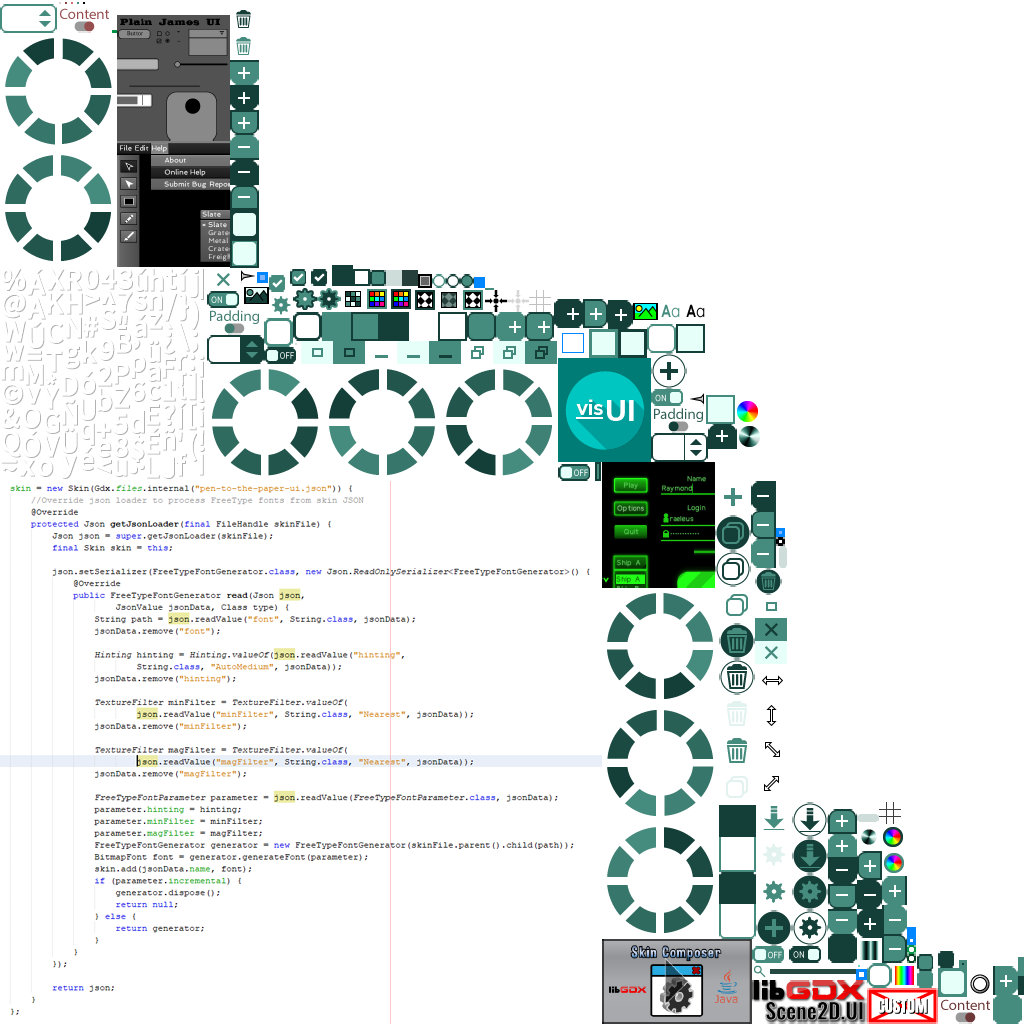
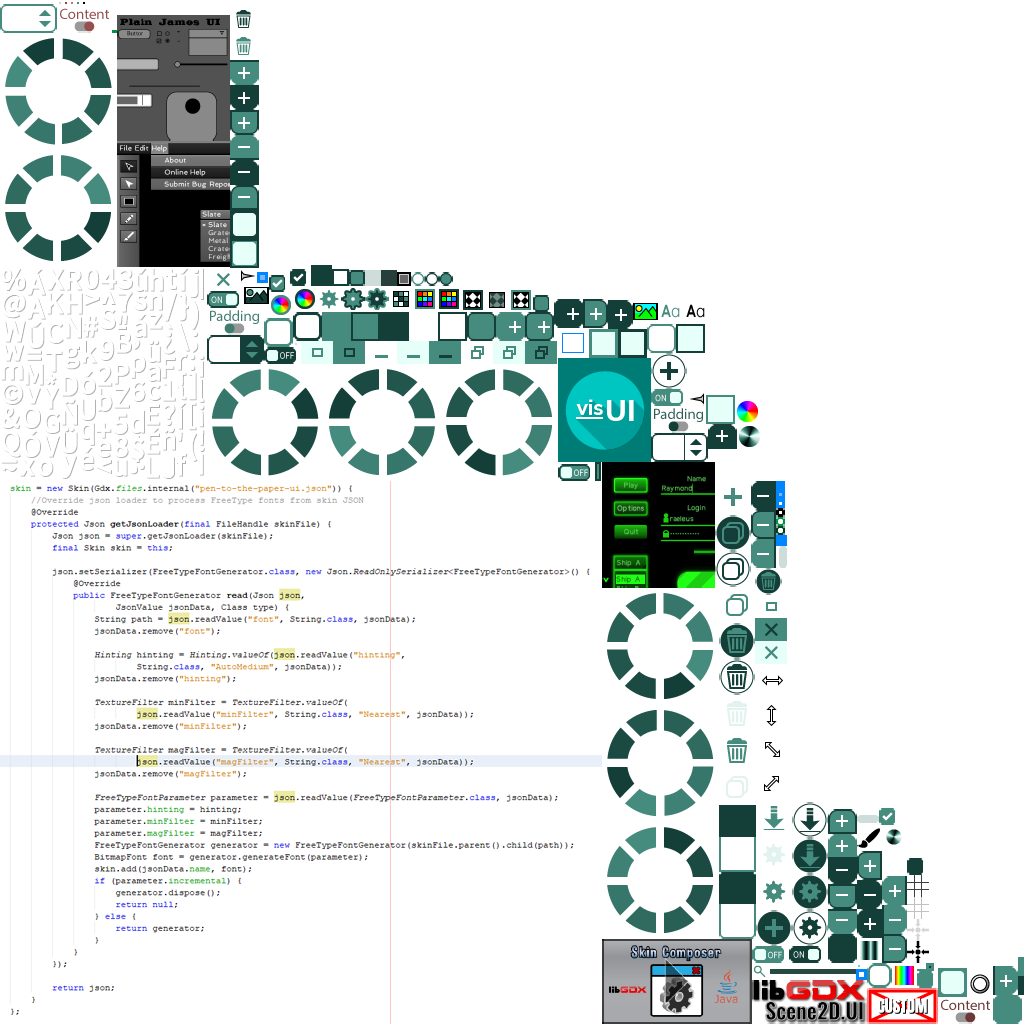
Added Style property type to Custom Classes. Resolves #46

Changed region(s): [[0.25, 0.25, 0.5312, 0.3125], [0.8438, 0.7812, 0.9375, 0.9688], [0.75, 0.4688, 0.7812, 0.5312]]

diff --git a/core/src/com/ray3k/skincomposer/dialog/DialogCustomStyleSelection.java b/core/src/com/ray3k/skincomposer/dialog/DialogCustomStyleSelection.java
@@ -1,0 +1,201 @@
+/*
+ * The MIT License
+ *
+ * Copyright 2018 Raymond Buckley.
+ *
+ * Permission is hereby granted, free of charge, to any person obtaining a copy
+ * of this software and associated documentation files (the "Software"), to deal
+ * in the Software without restriction, including without limitation the rights
+ * to use, copy, modify, merge, publish, distribute, sublicense, and/or sell
+ * copies of the Software, and to permit persons to whom the Software is
+ * furnished to do so, subject to the following conditions:
+ *
+ * The above copyright notice and this permission notice shall be included in
+ * all copies or substantial portions of the Software.
+ *
+ * THE SOFTWARE IS PROVIDED "AS IS", WITHOUT WARRANTY OF ANY KIND, EXPRESS OR
+ * IMPLIED, INCLUDING BUT NOT LIMITED TO THE WARRANTIES OF MERCHANTABILITY,
+ * FITNESS FOR A PARTICULAR PURPOSE AND NONINFRINGEMENT. IN NO EVENT SHALL THE
+ * AUTHORS OR COPYRIGHT HOLDERS BE LIABLE FOR ANY CLAIM, DAMAGES OR OTHER
+ * LIABILITY, WHETHER IN AN ACTION OF CONTRACT, TORT OR OTHERWISE, ARISING FROM,
+ * OUT OF OR IN CONNECTION WITH THE SOFTWARE OR THE USE OR OTHER DEALINGS IN
+ * THE SOFTWARE.
+ */
+package com.ray3k.skincomposer.dialog;
+
+import com.badlogic.gdx.Input.Keys;
+import com.badlogic.gdx.scenes.scene2d.Action;
+import com.badlogic.gdx.scenes.scene2d.Actor;
+import com.badlogic.gdx.scenes.scene2d.Event;
+import com.badlogic.gdx.scenes.scene2d.EventListener;
+import com.badlogic.gdx.scenes.scene2d.Stage;
+import com.badlogic.gdx.scenes.scene2d.ui.Dialog;
+import com.badlogic.gdx.scenes.scene2d.ui.Label;
+import com.badlogic.gdx.scenes.scene2d.ui.SelectBox;
+import com.badlogic.gdx.scenes.scene2d.ui.Table;
+import com.badlogic.gdx.scenes.scene2d.ui.TextButton;
+import com.badlogic.gdx.scenes.scene2d.utils.ChangeListener;
+import com.badlogic.gdx.utils.Array;
+import com.ray3k.skincomposer.Main;
+import com.ray3k.skincomposer.data.CustomClass;
+import com.ray3k.skincomposer.dialog.DialogCustomStyleSelection.DialogCustomStyleSelectionEvent;
+
+/**
+ *
+ * @author Raymond
+ */
+public class DialogCustomStyleSelection extends Dialog {
+    private Main main;
+    
+    public DialogCustomStyleSelection(Main main) {
+        super("Select a style...", main.getSkin(), "bg");
+        this.main = main;
+        
+        populate();
+    }
+    
+    private void populate() {
+        var t = getContentTable();
+        t.pad(5);
+        
+        var table = new Table();
+        t.add(table).expandY();
+        
+        table.defaults().space(5);
+        var label = new Label("Class:", getSkin());
+        table.add(label).right();
+        
+        var selectBox = new SelectBox<String>(getSkin());
+        selectBox.setName("classes");
+        table.add(selectBox).growX().minWidth(100);
+        selectBox.addListener(main.getHandListener());
+        selectBox.addListener(new ChangeListener() {
+            @Override
+            public void changed(ChangeListener.ChangeEvent event, Actor actor) {
+                var selectBox = (SelectBox<String>) actor;
+                populateStyles(selectBox.getSelectedIndex());
+            }
+        });
+        
+        table.row();
+        label = new Label("Style:", getSkin());
+        table.add(label).right();
+        
+        selectBox = new SelectBox<>(getSkin());
+        selectBox.setName("styles");
+        table.add(selectBox).growX().minWidth(100);
+        selectBox.addListener(main.getHandListener());
+        
+        populateClasses();
+        populateStyles(0);
+        
+        t = getButtonTable();
+        t.pad(5);
+        
+        t.defaults().space(5).minWidth(75);
+        var textButton = new TextButton("OK", getSkin());
+        button(textButton, true);
+        textButton.addListener(main.getHandListener());
+        
+        textButton = new TextButton("Cancel", getSkin());
+        button(textButton, false);
+        textButton.addListener(main.getHandListener());
+        
+        key(Keys.ENTER, true).key(Keys.ESCAPE, false);
+    }
+    
+    private void populateClasses() {
+        var classNames = new Array<String>();
+        for (Class clazz : Main.BASIC_CLASSES) {
+            classNames.add(clazz.getSimpleName());
+        }
+        for (CustomClass clazz : main.getJsonData().getCustomClasses()) {
+            classNames.add(clazz.getDisplayName());
+        }
+        
+        SelectBox<String> selectBox = findActor("classes");
+        selectBox.setItems(classNames);
+    }
+    
+    private void populateStyles(int index) {
+        var styleNames = new Array<String>();
+        if (index < Main.BASIC_CLASSES.length) {
+            var styles = main.getJsonData().getClassStyleMap().get(Main.BASIC_CLASSES[index]);
+            for (var style : styles) {
+                styleNames.add(style.name);
+            }
+        } else {
+            var styles = main.getJsonData().getCustomClasses().get(index - Main.BASIC_CLASSES.length).getStyles();
+            for (var style : styles) {
+                styleNames.add(style.getName());
+            }
+        }
+        
+        SelectBox<String> selectBox = findActor("styles");
+        selectBox.setItems(styleNames);
+    }
+
+    @Override
+    public Dialog show(Stage stage, Action action) {
+        fire(new DialogEvent(DialogEvent.Type.OPEN));
+        return super.show(stage, action);
+    }
+
+    @Override
+    public boolean remove() {
+        fire(new DialogEvent(DialogEvent.Type.CLOSE));
+        return super.remove();
+    }
+
+    @Override
+    protected void result(Object object) {
+        if ((boolean) object) {
+            var style = ((SelectBox<String>) findActor("styles")).getSelected();
+            fire(new DialogCustomStyleSelectionEvent(DialogCustomStyleSelectionEvent.Type.CONFIRM, style));
+        } else {
+            fire(new DialogCustomStyleSelectionEvent(DialogCustomStyleSelectionEvent.Type.CANCEL));
+        }
+    }
+    
+    public static class DialogCustomStyleSelectionEvent extends Event {
+        public static enum Type {
+            CONFIRM, CANCEL
+        }
+        
+        private Type type;
+        private String style;
+
+        public DialogCustomStyleSelectionEvent(Type type) {
+            this.type = type;
+        }
+
+        public DialogCustomStyleSelectionEvent(Type type, String style) {
+            this.type = type;
+            this.style = style;
+        }
+    }
+    
+    public abstract static class DialogCustomStyleSelectionListener implements EventListener {
+        @Override
+        public boolean handle(Event event) {
+            if (event instanceof DialogCustomStyleSelectionEvent) {
+                var dialogEvent = (DialogCustomStyleSelectionEvent) event;
+                switch (dialogEvent.type) {
+                    case CONFIRM:
+                        confirmed(dialogEvent.style);
+                        break;
+                    case CANCEL:
+                        cancelled();
+                        break;
+                }
+                return true;
+            } else {
+                return false;
+            }
+        }
+        
+        public abstract void confirmed(String style);
+        
+        public abstract void cancelled();
+    }
+}

diff --git a/core/src/com/ray3k/skincomposer/RootTable.java b/core/src/com/ray3k/skincomposer/RootTable.java
@@ -890,6 +890,16 @@ public class RootTable extends Table {
                     
                     button.addListener(new CustomPropertyChangeListener(styleProperty, button));
                     button.addListener(main.getHandListener());
+                } else if (styleProperty.getType() == PropertyType.STYLE) {
+                    String value = "";
+                    if (styleProperty.getValue() instanceof String) {
+                        value = (String) styleProperty.getValue();
+                    }
+                    BrowseField browseField = new BrowseField(value, styleProperty.getName(), getSkin(), "style");
+                    browseField.addListener(main.getHandListener());
+                    table.add(browseField).padTop(20.0f);
+
+                    browseField.addListener(new CustomPropertyChangeListener(styleProperty, browseField));
                 }
                 
                 Button duplicateButton = new Button(getSkin(), "duplicate");
@@ -2355,6 +2365,7 @@ public class RootTable extends Table {
                 if (!showMessage) {
                     HorizontalGroup horizontalGroup = new HorizontalGroup();
                     horizontalGroup.wrap();
+                    //todo: resolve the following crash line
                     //the following causes a crash. LibGDX bug.
 //                    horizontalGroup.space(10.0f);
                     horizontalGroup.wrapSpace(10.0f);
@@ -2371,6 +2382,10 @@ public class RootTable extends Table {
                                 case TEXT:
                                 case RAW_TEXT:
                                     Label labelText = new Label((String) customProperty.getValue(), getSkin());
+                                    container.setActor(labelText);
+                                    break;
+                                case STYLE:
+                                    labelText = new Label((String) customProperty.getValue(), getSkin());
                                     container.setActor(labelText);
                                     break;
                                 case NUMBER:

diff --git a/core/src/com/ray3k/skincomposer/data/CustomProperty.java b/core/src/com/ray3k/skincomposer/data/CustomProperty.java
@@ -35,7 +35,7 @@ public class CustomProperty implements Json.Serializable {
     private Main main;
     
     public static enum PropertyType {
-        NONE("None"), NUMBER("Number"), TEXT("Text"), RAW_TEXT("Raw Text (JSON)"), DRAWABLE("Drawable"), FONT("Font"), COLOR("Color"), BOOL("Boolean");
+        NONE("None"), NUMBER("Number"), TEXT("Text"), RAW_TEXT("Raw Text (JSON)"), DRAWABLE("Drawable"), FONT("Font"), COLOR("Color"), BOOL("Boolean"), STYLE("Style");
 
         String name;
         PropertyType(String name) {
@@ -58,9 +58,8 @@ public class CustomProperty implements Json.Serializable {
         
         switch (type) {
             case TEXT:
-                value = "";
-                break;
             case RAW_TEXT:
+            case STYLE:
                 value = "";
                 break;
             case NUMBER:
@@ -138,7 +137,7 @@ public class CustomProperty implements Json.Serializable {
                 || value instanceof Boolean && type == PropertyType.BOOL) {
             writeValue = true;
         } else if (value instanceof String) {
-            if (type == PropertyType.TEXT || type == PropertyType.RAW_TEXT) {
+            if (type == PropertyType.TEXT || type == PropertyType.RAW_TEXT || type == PropertyType.STYLE) {
                 writeValue = true;
             } else if (type == PropertyType.COLOR) {
                 for (ColorData data : main.getJsonData().getColors()) {

diff --git a/core/src/com/ray3k/skincomposer/UndoableManager.java b/core/src/com/ray3k/skincomposer/UndoableManager.java
@@ -274,6 +274,38 @@ public class UndoableManager {
         }
     }
     
+    public static class CustomStyleSelectionUndoable implements Undoable {
+        private final CustomProperty property;
+        private final Object oldValue, newValue;
+        private final Main main;
+    
+        public CustomStyleSelectionUndoable(Main main, CustomProperty property, Object newValue) {
+            this.property = property;
+            this.oldValue = property.getValue();
+            this.newValue = newValue;
+            this.main = main;
+        }
+    
+        @Override
+        public void undo() {
+            property.setValue(oldValue);
+            main.getRootTable().refreshStyleProperties(true);
+            main.getRootTable().refreshPreview();
+        }
+    
+        @Override
+        public void redo() {
+            property.setValue(newValue);
+            main.getRootTable().refreshStyleProperties(true);
+            main.getRootTable().refreshPreview();
+        }
+
+        @Override
+        public String getUndoText() {
+            return "Change Style Property " + property.getName();
+        }
+    }
+    
     public static class DrawableUndoable implements Undoable {
         private StyleProperty property;
         private Object oldValue, newValue;

diff --git a/core/src/com/ray3k/skincomposer/MainListener.java b/core/src/com/ray3k/skincomposer/MainListener.java
@@ -54,7 +54,6 @@ import com.ray3k.skincomposer.data.CustomProperty;
 import com.ray3k.skincomposer.UndoableManager.NewCustomClassUndoable;
 import com.ray3k.skincomposer.data.CustomProperty.PropertyType;
 import com.ray3k.skincomposer.data.DrawableData;
-import com.ray3k.skincomposer.data.FreeTypeFontData;
 import com.ray3k.skincomposer.dialog.DialogCustomClass.CustomClassListener;
 import com.ray3k.skincomposer.dialog.DialogCustomStyle;
 import com.ray3k.skincomposer.dialog.DialogListener;
@@ -644,6 +643,9 @@ public class MainListener extends RootTableListener {
                 break;
             case BOOL:
                 main.getUndoableManager().addUndoable(new UndoableManager.CustomBoolUndoable(main, customProperty, ((Button) styleActor).isChecked()), false);
+                break;
+            case STYLE:
+                dialogFactory.showDialogCustomStyleSelection(customProperty, dialogListener);
                 break;
             default:
                 break;

diff --git a/core/src/com/ray3k/skincomposer/dialog/DialogFactory.java b/core/src/com/ray3k/skincomposer/dialog/DialogFactory.java
@@ -961,4 +961,22 @@ public class DialogFactory {
         dialog.setFillParent(true);
         dialog.show(main.getStage());
     }
+    
+    public DialogCustomStyleSelection showDialogCustomStyleSelection(CustomProperty customProperty, DialogListener dialogListener) {
+        var dialog = new DialogCustomStyleSelection(main);
+        dialog.addListener(dialogListener);
+        dialog.show(main.getStage());
+        dialog.addListener(new DialogCustomStyleSelection.DialogCustomStyleSelectionListener() {
+            @Override
+            public void confirmed(String style) {
+                main.getUndoableManager().addUndoable(new UndoableManager.CustomStyleSelectionUndoable(main, customProperty, style), true);
+            }
+
+            @Override
+            public void cancelled() {
+                
+            }
+        });
+        return dialog;
+    }
 }

diff --git a/core/src/com/ray3k/skincomposer/dialog/DialogCustomProperty.java b/core/src/com/ray3k/skincomposer/dialog/DialogCustomProperty.java
@@ -83,7 +83,7 @@ public class DialogCustomProperty extends Dialog {
 
         getContentTable().row();
         propertyTypeBox = new SelectBox<>(getSkin());
-        propertyTypeBox.setItems(PropertyType.TEXT, PropertyType.RAW_TEXT, PropertyType.NUMBER, PropertyType.BOOL, PropertyType.FONT, PropertyType.DRAWABLE, PropertyType.COLOR);
+        propertyTypeBox.setItems(PropertyType.TEXT, PropertyType.RAW_TEXT, PropertyType.STYLE, PropertyType.NUMBER, PropertyType.BOOL, PropertyType.FONT, PropertyType.DRAWABLE, PropertyType.COLOR);
         propertyTypeBox.addListener(main.getHandListener());
         propertyTypeBox.getList().addListener(main.getHandListener());
         if (propertyType != null && propertyType != PropertyType.NONE) {

diff --git a/core/src/com/ray3k/skincomposer/data/JsonData.java b/core/src/com/ray3k/skincomposer/data/JsonData.java
@@ -811,6 +811,7 @@ public class JsonData implements Json.Serializable {
             if (null != customProperty.getType()) switch (customProperty.getType()) {
                 case TEXT:
                 case RAW_TEXT:
+                case STYLE:
                     returnValue = true;
                     break;
                 case COLOR:

diff --git a/CHANGES.md b/CHANGES.md
@@ -4,6 +4,7 @@
 * Created export dialog and moved export settings to this window.
 * Improved appearance of Settings dialog.
 * Updated Tiny File Dialogs to 3.2.0. Resolves #45
+* Added Style property type to Custom Classes. Resolves #46
 
 ### Skin Composer Version 25 ###
 * Fixed exception when opening an old project.
